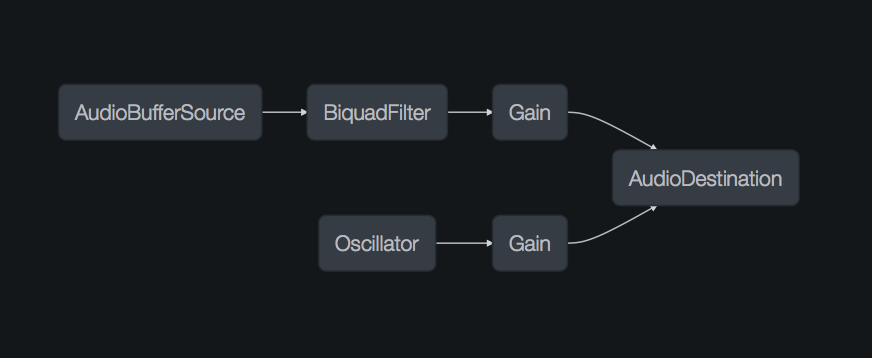
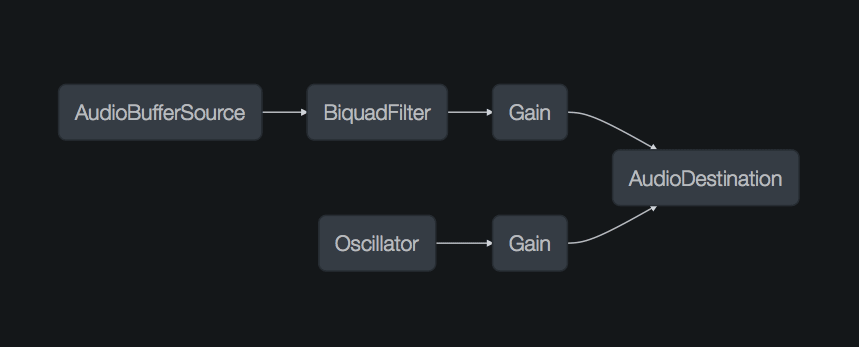
Optimised and renamed pictures

diff --git a/articles/_posts/2015-05-26-drum-sounds-webaudio.md b/articles/_posts/2015-05-26-drum-sounds-webaudio.md
@@ -4,10 +4,10 @@ authors:
 - chris-lowis
 intro: 'Learn the basics of the Web Audio API by creating some classic electronic drum sounds.'
 tags:
+- javascript
+- media
 - audio
-cover: png
 license: cc-by-3.0
-published:false
 ---
 
 ## The Web Audio API
